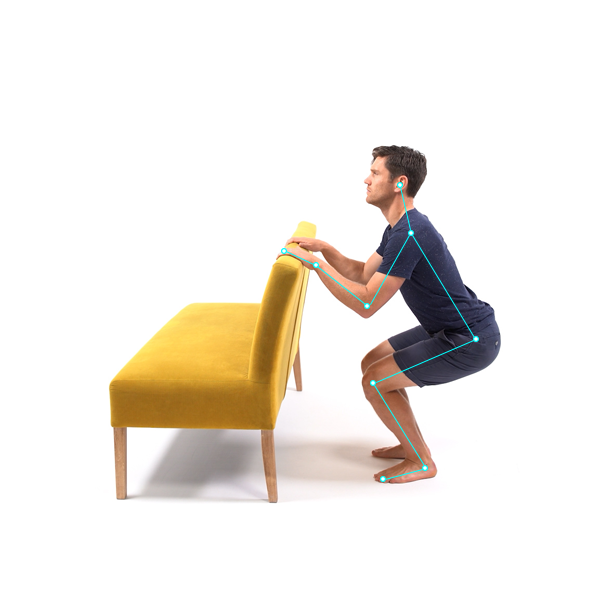
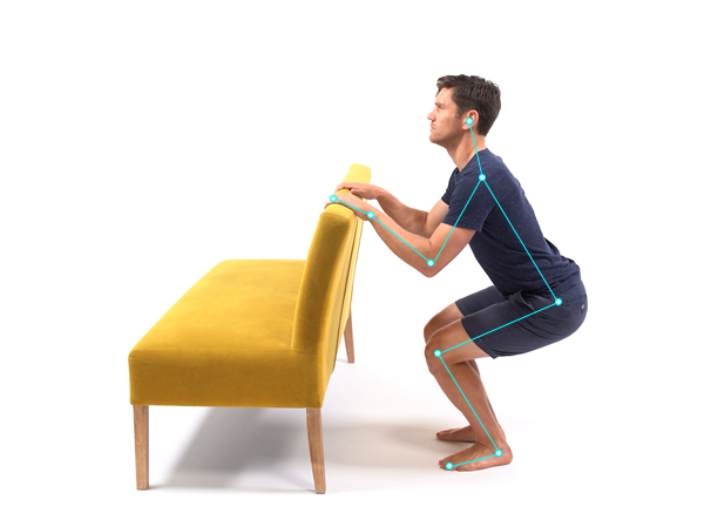
Modify image styling and replaced some image files

Changed region(s): [[0.18, 0.125, 0.84, 0.9688]]

diff --git a/bootstrapping.html b/bootstrapping.html
@@ -75,11 +75,13 @@
         there sufficient consumer demand?</p>
       <p>To test the market for the product before we had the technical capabilities to
         deliver the service with AI, I set about recruiting the top coaches across various disciplines of technical
-        sports including top tier coaches in golf, tennis, cricket, skiing, snowboarding, climbing, yoga and running. We
+        sports including top tier coaches in golf, tennis, cricket, skiing, snowboarding, climbing, yoga and running.
+        We
         created a simple yet effective web app under the brand Instructor Guru and began selling remote coaching.</p>
       <p>The concept was that clients would film themselves for 30 seconds performing the activity, upload the video
         footage
-        to the app, pay for the service, and within 48 hours they would receive a 20 minute analysis of their technique,
+        to the app, pay for the service, and within 48 hours they would receive a 20 minute analysis of their
+        technique,
         along with detailed steps to improve, and pre-recorded drills or exercises to complete.</p>
       <p>The service was marketed on a small budget, and within two months we had sufficient evidence to confirm that
         there was demand for remote coaching, though there were several barriers and downsides to the approach.</p>

diff --git a/assets/css/style.css b/assets/css/style.css
@@ -16,6 +16,15 @@ body {
   min-height: 100vh;
 }
 
+img {
+  margin-top: 15px;
+  margin-bottom: 15px;
+}
+
+section>h1 {
+  margin-top: 5vh
+}
+
 /* Header Styles */
 header {
   background-color: #ffffff;
@@ -51,8 +60,17 @@ main {
   flex: 1 0 auto
 }
 
-section>h1 {
-  margin-top: 10vh
+main>section>h1 {
+  text-align: center;
+}
+
+main>section>img {
+  display: block;
+  margin-left: auto;
+  margin-right: auto;
+  width: auto;
+  max-width: 100%;
+  height: auto;
 }
 
 .col-12,
@@ -107,8 +125,8 @@ section>h1 {
 
 /* Bio Main */
 .bio {
-  padding: 20px;
-  margin: 20px;
+  padding: 10px;
+  margin: 10px;
 }
 
 /* Special Classes */
@@ -127,6 +145,19 @@ section>h1 {
 .contact-img {
   max-width: 30%;
   padding: 10px;
+}
+
+main>section>div>img {
+  display: block;
+  margin-left: auto;
+  margin-right: auto;
+  width: auto;
+  max-width: 100%;
+  height: auto;
+}
+
+.success {
+  text-align: center;
 }
 
 /* Footer Styles */

diff --git a/design_sprint.html b/design_sprint.html
@@ -64,7 +64,7 @@
   <!-- This section is the core of the webpage, presenting information about use of design sprints at Agile Kinetic -->
   <main class="d-flex flex-column justify-content-center p-4">
     <section class="container py-4">
-      <h1>Revolutionising the Patient Journey with a Design Sprint</h1>
+      <h1>Reshaping our Patient Journey using the Design Sprint</h1>
       <img src="assets/images/mobilityhub1.png" alt="Example of a patient's upload on an app" class="img-fluid">
       <b>A Case Study from Agile Kinetic</b>
       <p>In the dynamic world of software development, especially in health technology, understanding and enhancing the

diff --git a/index.html b/index.html
@@ -109,7 +109,7 @@
           <img src="assets/images/instructor_guru_small.jpg" alt="Instructor Guru app prototype">
           <div>
             <h2>Instructor Guru</h2>
-            <p>Testing Business Ideas: Prototype Web App</p>
+            <p>Testing Business Ideas</p>
             <a class="btn btn-outline-primary" href="bootstrapping.html" role="button"
               aria-label="Details about Lean Product Development">Read more</a>
           </div>

diff --git a/form_success.html b/form_success.html
@@ -64,7 +64,7 @@
 
   <!-- This main section contains a message to advise the user that the contact form has been submitted successfully -->
   <main class="d-flex flex-column justify-content-center align-items-center p-4 ">
-    <section class="container py-4">
+    <section class="container success py-4">
       <div>
         <img src="assets/images/email_delivered.png" alt="Contact success image" class="contact-img img-fluid">
       </div>

diff --git a/bio.html b/bio.html
@@ -66,7 +66,7 @@
     <section class="container py-4 pt-5">
       <div class="row">
         <!-- Brief biography of my recent work history and achievements -->
-        <div class="bio col-12 col-md-6">
+        <div class="bio col-12">
           <h1>I'm Pete</h1>
           <br>
           <p>
